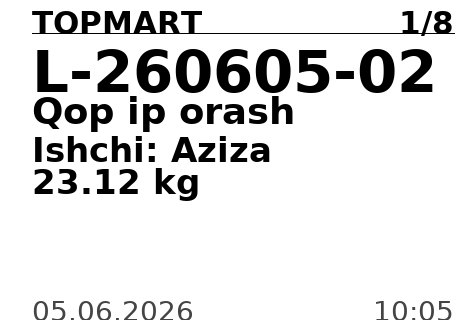
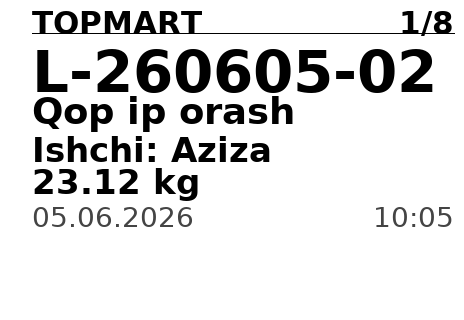
Update label design to reposition date and time information
Modify label generation logic to move the date and time display from the bottom of the label to appear directly below the weight information.

Replit-Commit-Author: Agent
Replit-Commit-Session-Id: 7a69ddb9-0d94-400c-a1ba-ae3fbd5a4e53
Replit-Commit-Checkpoint-Type: full_checkpoint
Replit-Commit-Event-Id: f40c20d1-16c9-4a4e-a951-4806eae47ac9
Replit-Commit-Screenshot-Url: https://storage.googleapis.com/screenshot-production-us-central1/ca84da3f-7711-4247-8a88-bb50ee21e7d2/7a69ddb9-0d94-400c-a1ba-ae3fbd5a4e53/ckkmFRe
Replit-Helium-Checkpoint-Created: true

diff --git a/artifacts/telegram-bot/bot/label_generator.py b/artifacts/telegram-bot/bot/label_generator.py
@@ -142,11 +142,11 @@ def _build_single(
 
     # ── Satır 5: Og'irlik ─────────────────────────────────────────
     draw.text((PAD_L, y), weight_txt, font=F_INFO, fill="black")
+    y += _text_h(draw, weight_txt, F_INFO) + 6
 
-    # ── Satır 6: Sana (chap) + Soat (o'ng) — pastki qisim ────────
-    DT_Y = LABEL_H - 5 - _text_h(draw, date_str, F_DT)
-    draw.text((PAD_L, DT_Y), date_str, font=F_DT, fill="#444444")
-    draw.text((LABEL_W - PAD_R, DT_Y), time_str, font=F_DT, fill="#444444", anchor="ra")
+    # ── Satır 6: Sana (chap) + Soat (o'ng) — og'irlik ostida ─────
+    draw.text((PAD_L, y), date_str, font=F_DT, fill="#444444")
+    draw.text((LABEL_W - PAD_R, y), time_str, font=F_DT, fill="#444444", anchor="ra")
 
     return img
 
